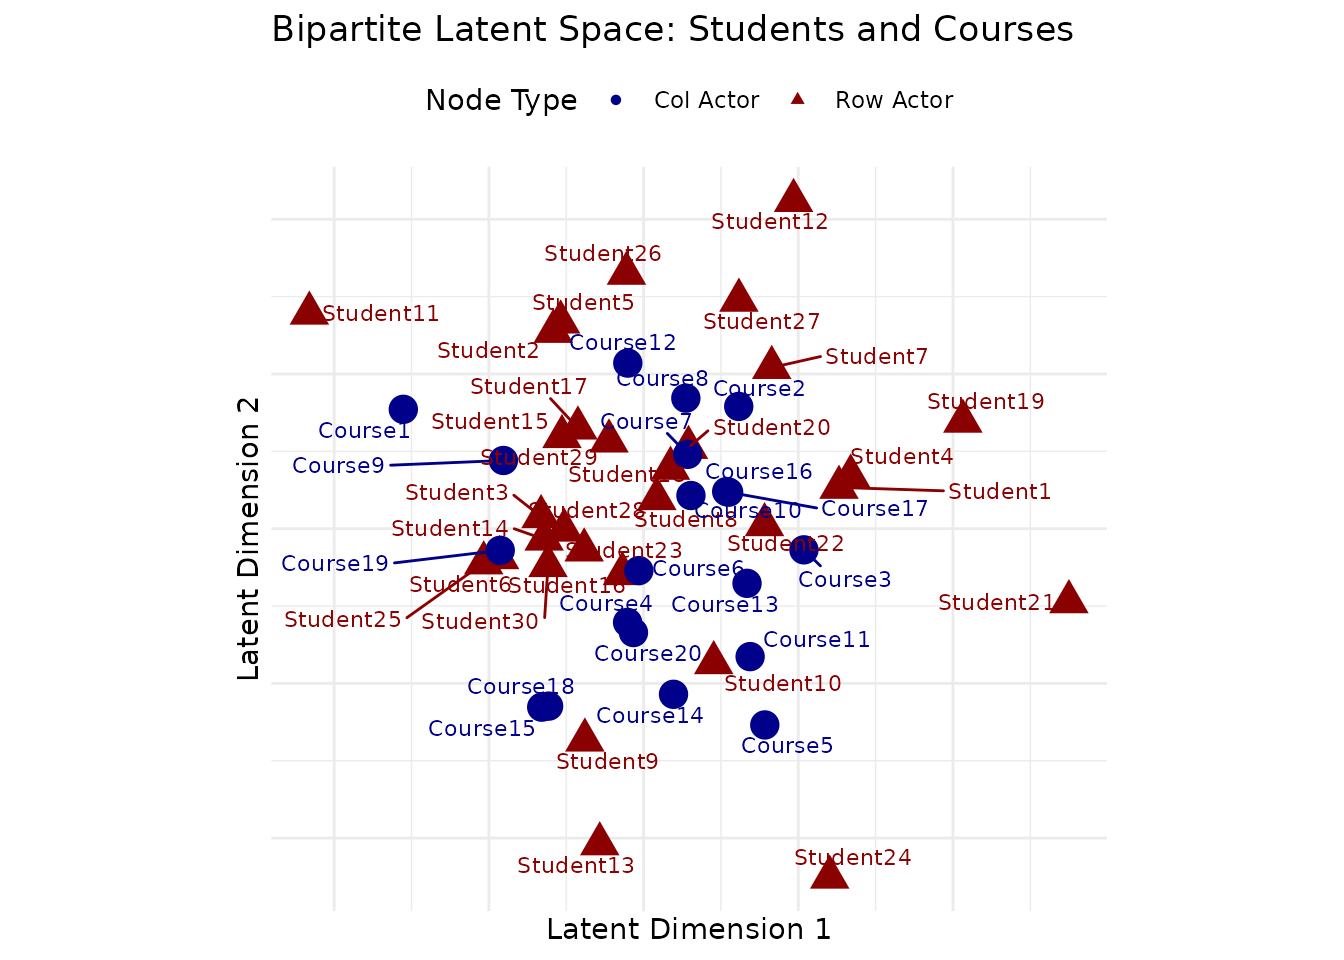
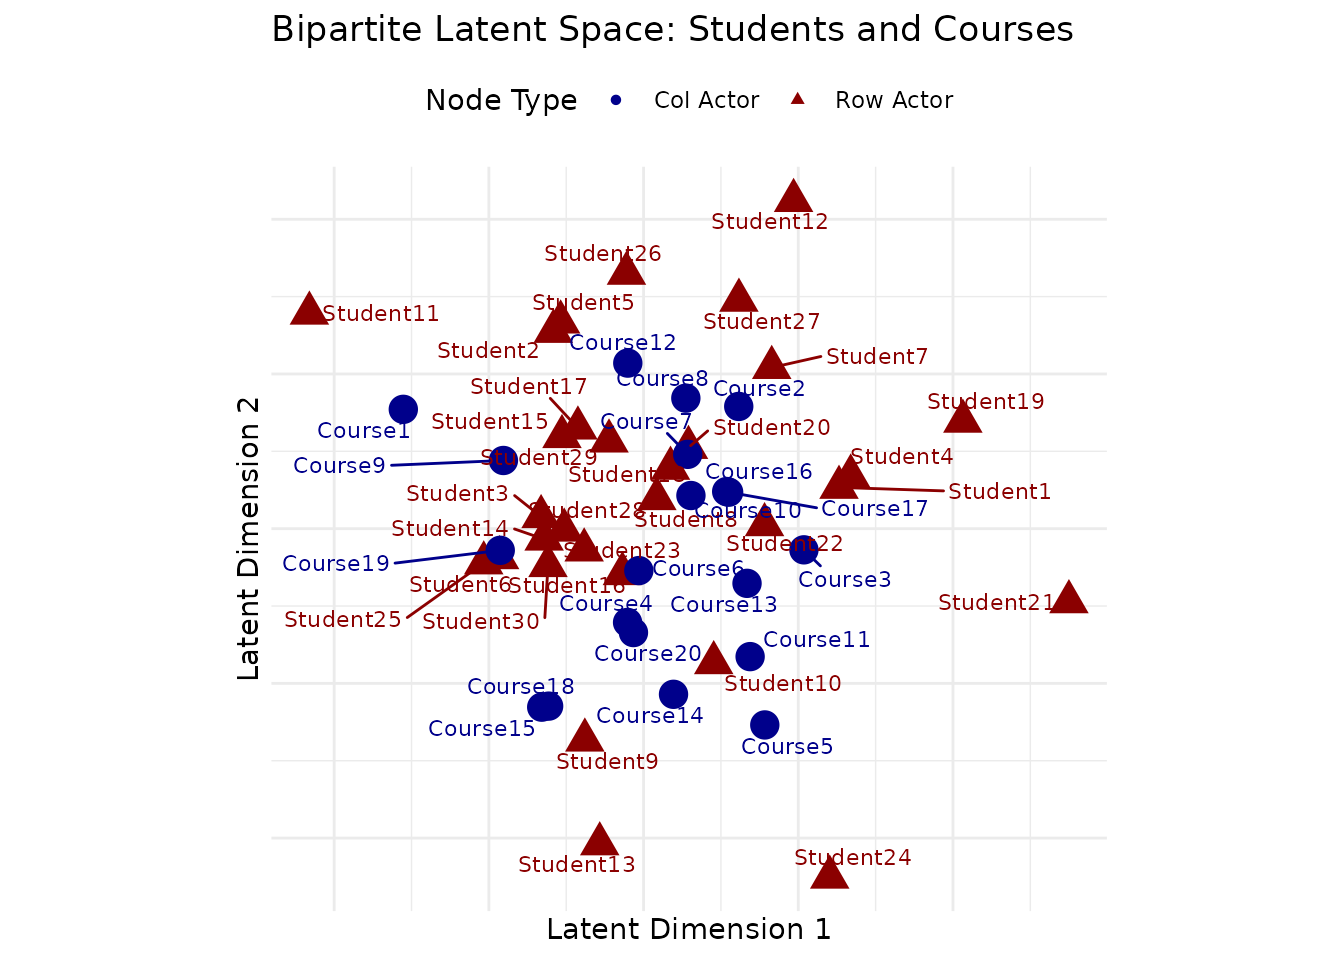
Deploying to gh-pages from @ netify-dev/lame@e8c84491105d0d28232d954674e42848d07ecef1 🚀

diff --git a/reference/dynamic_beta_prior_summary.html b/reference/dynamic_beta_prior_summary.html
@@ -1,11 +1,11 @@
 <!DOCTYPE html>
-<!-- Generated by pkgdown: do not edit by hand --><html lang="en"><head><meta http-equiv="Content-Type" content="text/html; charset=UTF-8"><meta charset="utf-8"><meta http-equiv="X-UA-Compatible" content="IE=edge"><meta name="viewport" content="width=device-width, initial-scale=1, shrink-to-fit=no"><title>Summarise the implied prior on a time-varying coefficient path — dynamic_beta_prior_summary • lame</title><script src="../deps/jquery-3.6.0/jquery-3.6.0.min.js"></script><meta name="viewport" content="width=device-width, initial-scale=1, shrink-to-fit=no"><link href="../deps/bootstrap-5.3.8/bootstrap.min.css" rel="stylesheet"><script src="../deps/bootstrap-5.3.8/bootstrap.bundle.min.js"></script><link href="../deps/font-awesome-6.5.2/css/all.min.css" rel="stylesheet"><link href="../deps/font-awesome-6.5.2/css/v4-shims.min.css" rel="stylesheet"><script src="../deps/headroom-0.11.0/headroom.min.js"></script><script src="../deps/headroom-0.11.0/jQuery.headroom.min.js"></script><script src="../deps/bootstrap-toc-1.0.1/bootstrap-toc.min.js"></script><script src="../deps/clipboard.js-2.0.11/clipboard.min.js"></script><script src="../deps/search-1.0.0/autocomplete.jquery.min.js"></script><script src="../deps/search-1.0.0/fuse.min.js"></script><script src="../deps/search-1.0.0/mark.min.js"></script><!-- pkgdown --><script src="../pkgdown.js"></script><meta property="og:title" content="Summarise the implied prior on a time-varying coefficient path — dynamic_beta_prior_summary"><meta name="description" content="Draws ndraws sample paths of length T from the
+<!-- Generated by pkgdown: do not edit by hand --><html lang="en"><head><meta http-equiv="Content-Type" content="text/html; charset=UTF-8"><meta charset="utf-8"><meta http-equiv="X-UA-Compatible" content="IE=edge"><meta name="viewport" content="width=device-width, initial-scale=1, shrink-to-fit=no"><title>Summarise the implied prior on a time-varying coefficient path — dynamic_beta_prior_summary • lame</title><script src="../deps/jquery-3.6.0/jquery-3.6.0.min.js"></script><meta name="viewport" content="width=device-width, initial-scale=1, shrink-to-fit=no"><link href="../deps/bootstrap-5.3.8/bootstrap.min.css" rel="stylesheet"><script src="../deps/bootstrap-5.3.8/bootstrap.bundle.min.js"></script><link href="../deps/font-awesome-6.5.2/css/all.min.css" rel="stylesheet"><link href="../deps/font-awesome-6.5.2/css/v4-shims.min.css" rel="stylesheet"><script src="../deps/headroom-0.11.0/headroom.min.js"></script><script src="../deps/headroom-0.11.0/jQuery.headroom.min.js"></script><script src="../deps/bootstrap-toc-1.0.1/bootstrap-toc.min.js"></script><script src="../deps/clipboard.js-2.0.11/clipboard.min.js"></script><script src="../deps/search-1.0.0/autocomplete.jquery.min.js"></script><script src="../deps/search-1.0.0/fuse.min.js"></script><script src="../deps/search-1.0.0/mark.min.js"></script><!-- pkgdown --><script src="../pkgdown.js"></script><meta property="og:title" content="Summarise the implied prior on a time-varying coefficient path — dynamic_beta_prior_summary"><meta name="description" content="Draws ndraws sample paths of length n_periods from the
 dynamic_beta prior (given a kind, AR(1) hyperparameters, and an
 inverse-gamma on the innovation variance) and reports the implied
 distribution of common summary statistics: maximum absolute first
 difference, roughness (sum of squared first differences), path range, and
 correlation with time. Use this before fitting to confirm that your prior
-is loose / tight enough."><meta property="og:description" content="Draws ndraws sample paths of length T from the
+is loose / tight enough."><meta property="og:description" content="Draws ndraws sample paths of length n_periods from the
 dynamic_beta prior (given a kind, AR(1) hyperparameters, and an
 inverse-gamma on the innovation variance) and reports the implied
 distribution of common summary statistics: maximum absolute first
@@ -59,7 +59,7 @@ is loose / tight enough."></head><body>
     </div>
 
     <div class="ref-description section level2">
-    <p>Draws <code>ndraws</code> sample paths of length <code>T</code> from the
+    <p>Draws <code>ndraws</code> sample paths of length <code>n_periods</code> from the
 <code>dynamic_beta</code> prior (given a kind, AR(1) hyperparameters, and an
 inverse-gamma on the innovation variance) and reports the implied
 distribution of common summary statistics: maximum absolute first
@@ -71,7 +71,7 @@ is loose / tight enough.</p>
     <div class="section level2">
     <h2 id="ref-usage">Usage<a class="anchor" aria-label="anchor" href="#ref-usage"></a></h2>
     <div class="sourceCode"><pre class="sourceCode r"><code><span><span class="fu">dynamic_beta_prior_summary</span><span class="op">(</span></span>
-<span>  T <span class="op">=</span> <span class="fl">10L</span>,</span>
+<span>  n_periods <span class="op">=</span> <span class="fl">10L</span>,</span>
 <span>  ndraws <span class="op">=</span> <span class="fl">5000L</span>,</span>
 <span>  kind <span class="op">=</span> <span class="fu"><a href="https://rdrr.io/r/base/c.html" class="external-link">c</a></span><span class="op">(</span><span class="st">"ar1"</span>, <span class="st">"rw1"</span>, <span class="st">"rw2"</span>, <span class="st">"matern32"</span><span class="op">)</span>,</span>
 <span>  rho_mean <span class="op">=</span> <span class="fl">0.8</span>,</span>
@@ -90,7 +90,7 @@ is loose / tight enough.</p>
     <h2 id="arguments">Arguments<a class="anchor" aria-label="anchor" href="#arguments"></a></h2>
 
 
-<dl><dt id="arg-t">T<a class="anchor" aria-label="anchor" href="#arg-t"></a></dt>
+<dl><dt id="arg-n-periods">n_periods<a class="anchor" aria-label="anchor" href="#arg-n-periods"></a></dt>
 <dd><p>Length of the path (default 10).</p></dd>
 
 
@@ -153,7 +153,7 @@ maximum absolute first difference exceeds <code>threshold</code>.</p></dd>
 <dd><p>Length <code>ndraws</code> vector of sampled sigma values.</p></dd>
 
 <dt><code>paths</code></dt>
-<dd><p><code>ndraws x T</code> matrix of sample paths.</p></dd>
+<dd><p><code>ndraws x n_periods</code> matrix of sample paths.</p></dd>
 
 
 </dl></div>
@@ -171,7 +171,7 @@ and the first two values use a diffuse \(N(0, 10)\) initial prior.</p>
     <h2 id="ref-examples">Examples<a class="anchor" aria-label="anchor" href="#ref-examples"></a></h2>
     <div class="sourceCode"><pre class="sourceCode r"><code><span class="r-in"><span><span class="co"># \donttest{</span></span></span>
 <span class="r-in"><span><span class="co"># Default prior: AR(1) with rho_mean = 0.8, rho_sd = 0.15</span></span></span>
-<span class="r-in"><span><span class="va">s</span> <span class="op">&lt;-</span> <span class="fu">dynamic_beta_prior_summary</span><span class="op">(</span>T <span class="op">=</span> <span class="fl">10</span>, ndraws <span class="op">=</span> <span class="fl">2000</span>, seed <span class="op">=</span> <span class="fl">1</span><span class="op">)</span></span></span>
+<span class="r-in"><span><span class="va">s</span> <span class="op">&lt;-</span> <span class="fu">dynamic_beta_prior_summary</span><span class="op">(</span>n_periods <span class="op">=</span> <span class="fl">10</span>, ndraws <span class="op">=</span> <span class="fl">2000</span>, seed <span class="op">=</span> <span class="fl">1</span><span class="op">)</span></span></span>
 <span class="r-in"><span><span class="va">s</span><span class="op">$</span><span class="va">summary</span></span></span>
 <span class="r-out co"><span class="r-pr">#&gt;</span>             quantity        q05        q50        q95</span>
 <span class="r-out co"><span class="r-pr">#&gt;</span> 1 max_abs_first_diff  0.7215172 1.46787811  3.7138105</span>

diff --git a/reference/rhat_dynamic_beta.html b/reference/rhat_dynamic_beta.html
@@ -83,7 +83,7 @@ subset (matches <code>dimnames(fit$BETA)[[2]]</code>).</p></dd>
     <h2 id="value">Value<a class="anchor" aria-label="anchor" href="#value"></a></h2>
     <p>Data frame with one row per coefficient: <code>coef</code>,
 <code>rhat_mvt</code>, <code>rhat_max_univariate</code>, <code>n_chains</code>,
-<code>n_iter_per_chain</code>, <code>T</code>. <code>rhat_mvt</code> is the
+<code>n_iter_per_chain</code>, <code>n_periods</code>. <code>rhat_mvt</code> is the
 Brooks-Gelman multivariate statistic; <code>rhat_max_univariate</code>
 is the max over per-(k,t) split-R-hat values for comparison.</p>
     </div>
@@ -119,11 +119,11 @@ For nearly degenerate covariances we add a tiny ridge to \(W_k\).</p>
 <span class="r-wrn co"><span class="r-pr">#&gt;</span> <span style="color: #00BBBB;">ℹ</span> `Y` will be thresholded to `1 * (Y &gt; 0)`; if you meant counts, use <span style="color: #0000BB;">"poisson"</span>,</span>
 <span class="r-wrn co"><span class="r-pr">#&gt;</span>   or <span style="color: #0000BB;">"ordinal"</span>/<span style="color: #0000BB;">"normal"</span> as appropriate.</span>
 <span class="r-in"><span><span class="fu">rhat_dynamic_beta</span><span class="op">(</span><span class="va">fit_list</span><span class="op">)</span></span></span>
-<span class="r-out co"><span class="r-pr">#&gt;</span>        coef  rhat_mvt rhat_max_univariate n_chains n_iter_per_chain T</span>
-<span class="r-out co"><span class="r-pr">#&gt;</span> 1 intercept 0.9652322            1.003289        2               12 4</span>
-<span class="r-out co"><span class="r-pr">#&gt;</span> 2   X1_dyad 1.4857680            1.994606        2               12 4</span>
-<span class="r-out co"><span class="r-pr">#&gt;</span> 3   X2_dyad 1.2703514            2.126998        2               12 4</span>
-<span class="r-out co"><span class="r-pr">#&gt;</span> 4   X3_dyad 1.6227131            2.165537        2               12 4</span>
+<span class="r-out co"><span class="r-pr">#&gt;</span>        coef  rhat_mvt rhat_max_univariate n_chains n_iter_per_chain n_periods</span>
+<span class="r-out co"><span class="r-pr">#&gt;</span> 1 intercept 0.9652322            1.003289        2               12         4</span>
+<span class="r-out co"><span class="r-pr">#&gt;</span> 2   X1_dyad 1.4857680            1.994606        2               12         4</span>
+<span class="r-out co"><span class="r-pr">#&gt;</span> 3   X2_dyad 1.2703514            2.126998        2               12         4</span>
+<span class="r-out co"><span class="r-pr">#&gt;</span> 4   X3_dyad 1.6227131            2.165537        2               12         4</span>
 <span class="r-in"><span><span class="co"># }</span></span></span>
 <span class="r-in"><span></span></span>
 </code></pre></div>

diff --git a/index.html b/index.html
@@ -11,8 +11,8 @@
 <script src="deps/bootstrap-5.3.8/bootstrap.bundle.min.js"></script><link href="deps/font-awesome-6.5.2/css/all.min.css" rel="stylesheet">
 <link href="deps/font-awesome-6.5.2/css/v4-shims.min.css" rel="stylesheet">
 <script src="deps/headroom-0.11.0/headroom.min.js"></script><script src="deps/headroom-0.11.0/jQuery.headroom.min.js"></script><script src="deps/bootstrap-toc-1.0.1/bootstrap-toc.min.js"></script><script src="deps/clipboard.js-2.0.11/clipboard.min.js"></script><script src="deps/search-1.0.0/autocomplete.jquery.min.js"></script><script src="deps/search-1.0.0/fuse.min.js"></script><script src="deps/search-1.0.0/mark.min.js"></script><!-- pkgdown --><script src="pkgdown.js"></script><meta property="og:title" content="Longitudinal Additive and Multiplicative Effects Models for Networks">
-<meta name="description" content="Tools for additive and multiplicative effects models for both cross-sectional and longitudinal network analysis. The package provides two main functions: ame() for cross-sectional networks and lame() for longitudinal networks. It supports square and rectangular network structures. Key features include: (1) Cross-sectional network analysis via ame() with support for binary, continuous, ordinal, and count data; (2) Longitudinal network analysis via lame() with additive sender/receiver and multiplicative latent-factor effects that can evolve over time through AR(1) processes (Sewell and Chen (2015) &lt;doi:10.1080/01621459.2014.988214&gt;; Durante and Dunson (2014) &lt;doi:10.1093/biomet/asu040&gt;); (3) Handling of changing actor compositions across time periods in longitudinal models; (4) Performance improvements through C++ implementations via Rcpp and RcppArmadillo.">
-<meta property="og:description" content="Tools for additive and multiplicative effects models for both cross-sectional and longitudinal network analysis. The package provides two main functions: ame() for cross-sectional networks and lame() for longitudinal networks. It supports square and rectangular network structures. Key features include: (1) Cross-sectional network analysis via ame() with support for binary, continuous, ordinal, and count data; (2) Longitudinal network analysis via lame() with additive sender/receiver and multiplicative latent-factor effects that can evolve over time through AR(1) processes (Sewell and Chen (2015) &lt;doi:10.1080/01621459.2014.988214&gt;; Durante and Dunson (2014) &lt;doi:10.1093/biomet/asu040&gt;); (3) Handling of changing actor compositions across time periods in longitudinal models; (4) Performance improvements through C++ implementations via Rcpp and RcppArmadillo.">
+<meta name="description" content="Additive and multiplicative effects models for both cross-sectional and longitudinal network analysis. The package provides two main functions: ame() for cross-sectional networks and lame() for longitudinal networks. It supports square and rectangular network structures. Key features include: (1) Cross-sectional network analysis via ame() with support for binary, continuous, ordinal, and count data; (2) Longitudinal network analysis via lame() with additive sender/receiver and multiplicative latent-factor effects that can evolve over time through AR(1) processes (Sewell and Chen (2015) &lt;doi:10.1080/01621459.2014.988214&gt;; Durante and Dunson (2014) &lt;doi:10.1093/biomet/asu040&gt;); (3) Handling of changing actor compositions across time periods in longitudinal models; (4) Performance improvements through C++ implementations via Rcpp and RcppArmadillo.">
+<meta property="og:description" content="Additive and multiplicative effects models for both cross-sectional and longitudinal network analysis. The package provides two main functions: ame() for cross-sectional networks and lame() for longitudinal networks. It supports square and rectangular network structures. Key features include: (1) Cross-sectional network analysis via ame() with support for binary, continuous, ordinal, and count data; (2) Longitudinal network analysis via lame() with additive sender/receiver and multiplicative latent-factor effects that can evolve over time through AR(1) processes (Sewell and Chen (2015) &lt;doi:10.1080/01621459.2014.988214&gt;; Durante and Dunson (2014) &lt;doi:10.1093/biomet/asu040&gt;); (3) Handling of changing actor compositions across time periods in longitudinal models; (4) Performance improvements through C++ implementations via Rcpp and RcppArmadillo.">
 </head>
 <body>
     <a href="#main" class="visually-hidden-focusable">Skip to contents</a>
@@ -483,7 +483,7 @@
 <div class="section level2">
 <h2 id="license">License<a class="anchor" aria-label="anchor" href="#license"></a>
 </h2>
-<p>MIT License - see <a href="LICENSE">LICENSE</a> file for details.</p>
+<p>GPL-3. Portions of this package are derived from the <a href="https://CRAN.R-project.org/package=amen" class="external-link">amen</a> package (Copyright Peter D. Hoff, GPL-3); see <code>inst/COPYRIGHTS</code> for details.</p>
 </div>
 <div class="section level2">
 <h2 id="support">Support<a class="anchor" aria-label="anchor" href="#support"></a>
@@ -512,9 +512,7 @@
 <div class="license">
 <h2 data-toc-skip>License</h2>
 <ul class="list-unstyled">
-<li>
-<a href="https://opensource.org/licenses/mit-license.php" class="external-link">MIT</a> + file <a href="LICENSE-text.html">LICENSE</a>
-</li>
+<li><a href="https://www.r-project.org/Licenses/GPL-3" class="external-link">GPL-3</a></li>
 </ul>
 </div>
 
@@ -532,6 +530,7 @@
 <li>Cassy Dorff <br><small class="roles"> Author </small>   </li>
 <li>Shahryar Minhas <br><small class="roles"> Author, maintainer </small>   </li>
 <li>Tosin Salau <br><small class="roles"> Author </small>   </li>
+<li><a href="authors.html">More about authors...</a></li>
 </ul>
 </div>
 

diff --git a/reference/als_dynamic_beta.html b/reference/als_dynamic_beta.html
@@ -141,11 +141,11 @@ fit (AR(1) / RW1 / RW2 / Matern 3/2);
     <div class="section level2">
     <h2 id="ref-examples">Examples<a class="anchor" aria-label="anchor" href="#ref-examples"></a></h2>
     <div class="sourceCode"><pre class="sourceCode r"><code><span class="r-in"><span><span class="fu"><a href="https://rdrr.io/r/base/Random.html" class="external-link">set.seed</a></span><span class="op">(</span><span class="fl">1</span><span class="op">)</span></span></span>
-<span class="r-in"><span><span class="va">n</span> <span class="op">&lt;-</span> <span class="fl">10</span>; <span class="cn">T</span> <span class="op">&lt;-</span> <span class="fl">4</span></span></span>
-<span class="r-in"><span><span class="va">X</span> <span class="op">&lt;-</span> <span class="fu"><a href="https://rdrr.io/r/base/lapply.html" class="external-link">replicate</a></span><span class="op">(</span><span class="cn">T</span>, <span class="fu"><a href="https://rdrr.io/r/base/array.html" class="external-link">array</a></span><span class="op">(</span><span class="fu"><a href="https://rdrr.io/r/stats/Normal.html" class="external-link">rnorm</a></span><span class="op">(</span><span class="va">n</span><span class="op">*</span><span class="va">n</span><span class="op">*</span><span class="fl">2</span><span class="op">)</span>, <span class="fu"><a href="https://rdrr.io/r/base/c.html" class="external-link">c</a></span><span class="op">(</span><span class="va">n</span>, <span class="va">n</span>, <span class="fl">2</span><span class="op">)</span><span class="op">)</span>, simplify <span class="op">=</span> <span class="cn">FALSE</span><span class="op">)</span></span></span>
-<span class="r-in"><span><span class="va">beta_true</span> <span class="op">&lt;-</span> <span class="fu"><a href="https://rdrr.io/r/base/cbind.html" class="external-link">rbind</a></span><span class="op">(</span><span class="fu"><a href="https://rdrr.io/r/base/seq.html" class="external-link">seq</a></span><span class="op">(</span><span class="op">-</span><span class="fl">1</span>, <span class="fl">1</span>, length.out <span class="op">=</span> <span class="cn">T</span><span class="op">)</span>, <span class="fu"><a href="https://rdrr.io/r/base/seq.html" class="external-link">seq</a></span><span class="op">(</span><span class="fl">0.5</span>, <span class="op">-</span><span class="fl">0.5</span>, length.out <span class="op">=</span> <span class="cn">T</span><span class="op">)</span><span class="op">)</span></span></span>
-<span class="r-in"><span><span class="va">Y</span> <span class="op">&lt;-</span> <span class="fu"><a href="https://rdrr.io/r/base/vector.html" class="external-link">vector</a></span><span class="op">(</span><span class="st">"list"</span>, <span class="cn">T</span><span class="op">)</span></span></span>
-<span class="r-in"><span><span class="kw">for</span> <span class="op">(</span><span class="va">t</span> <span class="kw">in</span> <span class="fu"><a href="https://rdrr.io/r/base/seq.html" class="external-link">seq_len</a></span><span class="op">(</span><span class="cn">T</span><span class="op">)</span><span class="op">)</span> <span class="op">{</span></span></span>
+<span class="r-in"><span><span class="va">n</span> <span class="op">&lt;-</span> <span class="fl">10</span>; <span class="va">Tn</span> <span class="op">&lt;-</span> <span class="fl">4</span></span></span>
+<span class="r-in"><span><span class="va">X</span> <span class="op">&lt;-</span> <span class="fu"><a href="https://rdrr.io/r/base/lapply.html" class="external-link">replicate</a></span><span class="op">(</span><span class="va">Tn</span>, <span class="fu"><a href="https://rdrr.io/r/base/array.html" class="external-link">array</a></span><span class="op">(</span><span class="fu"><a href="https://rdrr.io/r/stats/Normal.html" class="external-link">rnorm</a></span><span class="op">(</span><span class="va">n</span><span class="op">*</span><span class="va">n</span><span class="op">*</span><span class="fl">2</span><span class="op">)</span>, <span class="fu"><a href="https://rdrr.io/r/base/c.html" class="external-link">c</a></span><span class="op">(</span><span class="va">n</span>, <span class="va">n</span>, <span class="fl">2</span><span class="op">)</span><span class="op">)</span>, simplify <span class="op">=</span> <span class="cn">FALSE</span><span class="op">)</span></span></span>
+<span class="r-in"><span><span class="va">beta_true</span> <span class="op">&lt;-</span> <span class="fu"><a href="https://rdrr.io/r/base/cbind.html" class="external-link">rbind</a></span><span class="op">(</span><span class="fu"><a href="https://rdrr.io/r/base/seq.html" class="external-link">seq</a></span><span class="op">(</span><span class="op">-</span><span class="fl">1</span>, <span class="fl">1</span>, length.out <span class="op">=</span> <span class="va">Tn</span><span class="op">)</span>, <span class="fu"><a href="https://rdrr.io/r/base/seq.html" class="external-link">seq</a></span><span class="op">(</span><span class="fl">0.5</span>, <span class="op">-</span><span class="fl">0.5</span>, length.out <span class="op">=</span> <span class="va">Tn</span><span class="op">)</span><span class="op">)</span></span></span>
+<span class="r-in"><span><span class="va">Y</span> <span class="op">&lt;-</span> <span class="fu"><a href="https://rdrr.io/r/base/vector.html" class="external-link">vector</a></span><span class="op">(</span><span class="st">"list"</span>, <span class="va">Tn</span><span class="op">)</span></span></span>
+<span class="r-in"><span><span class="kw">for</span> <span class="op">(</span><span class="va">t</span> <span class="kw">in</span> <span class="fu"><a href="https://rdrr.io/r/base/seq.html" class="external-link">seq_len</a></span><span class="op">(</span><span class="va">Tn</span><span class="op">)</span><span class="op">)</span> <span class="op">{</span></span></span>
 <span class="r-in"><span>  <span class="va">Yt</span> <span class="op">&lt;-</span> <span class="va">X</span><span class="op">[[</span><span class="va">t</span><span class="op">]</span><span class="op">]</span><span class="op">[</span>, , <span class="fl">1</span><span class="op">]</span> <span class="op">*</span> <span class="va">beta_true</span><span class="op">[</span><span class="fl">1</span>, <span class="va">t</span><span class="op">]</span> <span class="op">+</span> <span class="va">X</span><span class="op">[[</span><span class="va">t</span><span class="op">]</span><span class="op">]</span><span class="op">[</span>, , <span class="fl">2</span><span class="op">]</span> <span class="op">*</span> <span class="va">beta_true</span><span class="op">[</span><span class="fl">2</span>, <span class="va">t</span><span class="op">]</span> <span class="op">+</span></span></span>
 <span class="r-in"><span>        <span class="fu"><a href="https://rdrr.io/r/base/matrix.html" class="external-link">matrix</a></span><span class="op">(</span><span class="fu"><a href="https://rdrr.io/r/stats/Normal.html" class="external-link">rnorm</a></span><span class="op">(</span><span class="va">n</span><span class="op">*</span><span class="va">n</span>, <span class="fl">0</span>, <span class="fl">0.2</span><span class="op">)</span>, <span class="va">n</span>, <span class="va">n</span><span class="op">)</span></span></span>
 <span class="r-in"><span>  <span class="fu"><a href="https://rdrr.io/r/base/diag.html" class="external-link">diag</a></span><span class="op">(</span><span class="va">Yt</span><span class="op">)</span> <span class="op">&lt;-</span> <span class="cn">NA</span></span></span>

diff --git a/reference/init_dynamic_positions.html b/reference/init_dynamic_positions.html
@@ -52,7 +52,7 @@
 
     <div class="section level2">
     <h2 id="ref-usage">Usage<a class="anchor" aria-label="anchor" href="#ref-usage"></a></h2>
-    <div class="sourceCode"><pre class="sourceCode r"><code><span><span class="fu">init_dynamic_positions</span><span class="op">(</span><span class="va">n</span>, <span class="va">R</span>, <span class="cn">T</span>, <span class="va">rho_uv</span>, <span class="va">sigma_uv</span><span class="op">)</span></span></code></pre></div>
+    <div class="sourceCode"><pre class="sourceCode r"><code><span><span class="fu">init_dynamic_positions</span><span class="op">(</span><span class="va">n</span>, <span class="va">R</span>, <span class="va">Tn</span>, <span class="va">rho_uv</span>, <span class="va">sigma_uv</span><span class="op">)</span></span></code></pre></div>
     </div>
 
     <div class="section level2">
@@ -67,7 +67,7 @@
 <dd><p>Latent dimension</p></dd>
 
 
-<dt id="arg-t">T<a class="anchor" aria-label="anchor" href="#arg-t"></a></dt>
+<dt id="arg-tn">Tn<a class="anchor" aria-label="anchor" href="#arg-tn"></a></dt>
 <dd><p>Number of time points</p></dd>
 
 
@@ -81,7 +81,7 @@
 </dl></div>
     <div class="section level2">
     <h2 id="value">Value<a class="anchor" aria-label="anchor" href="#value"></a></h2>
-    <p>3D array of latent positions (n x R x T)</p>
+    <p>3D array of latent positions (n x R x Tn)</p>
     </div>
 
   </main><aside class="col-md-3"><nav id="toc" aria-label="Table of contents"><h2>On this page</h2>

diff --git a/authors.html b/authors.html
@@ -59,6 +59,11 @@
           <p><strong>Tosin Salau</strong>. Author.
           </p>
         </li>
+        <li>
+          <p><strong>Peter Hoff</strong>. Contributor, copyright holder.
+          <br><small>Author of the 'amen' package, from which several
+                      samplers and helpers are derived; see inst/COPYRIGHTS</small></p>
+        </li>
       </ul></div>
 
     <div class="section level2">

diff --git a/news/index.html b/news/index.html
@@ -47,7 +47,9 @@
 
     <div class="section level2">
 <h2 class="pkg-version" data-toc-text="1.3.2" id="lame-132">lame 1.3.2<a class="anchor" aria-label="anchor" href="#lame-132"></a></h2>
-<ul><li>Fixed Rd markup reported by CRAN’s incoming checks.</li>
+<ul><li>The package is now distributed under GPL-3 rather than MIT, matching the license of <code>amen</code>, from which several samplers and helpers are derived. Peter Hoff is credited as contributor and copyright holder; see <code>inst/COPYRIGHTS</code>.</li>
+<li>Fitting no longer leaves a <code>.Random.seed</code> behind in the global environment when the session had none, and <code><a href="../reference/lame.html">lame()</a></code> no longer sets <code>options(warn)</code>.</li>
+<li>Fixed Rd markup reported by CRAN’s incoming checks.</li>
 <li>Fixed a prior-scaling bug that could silently collapse the latent factors (and attenuate coefficients) in asymmetric <code><a href="../reference/ame.html">ame()</a></code> fits with <code>R &gt; 0</code>; fits now match <code>amen</code>.</li>
 <li>Time-varying coefficients (<code>dynamic_beta</code>) compose freely with the multiplicative latent factors (<code>R &gt; 0</code>) and additive sender/receiver effects, for every family and network type. Coefficients can follow AR(1), random-walk, or Matern dynamics, and <code><a href="https://rdrr.io/r/stats/predict.html" class="external-link">predict()</a></code> carries that drift into its forecasts.</li>
 <li>

diff --git a/reference/init_dynamic_ab_cpp.html b/reference/init_dynamic_ab_cpp.html
@@ -52,7 +52,7 @@
 
     <div class="section level2">
     <h2 id="ref-usage">Usage<a class="anchor" aria-label="anchor" href="#ref-usage"></a></h2>
-    <div class="sourceCode"><pre class="sourceCode r"><code><span><span class="fu">init_dynamic_ab_cpp</span><span class="op">(</span><span class="va">n</span>, <span class="cn">T</span>, <span class="va">rho_ab</span>, <span class="va">sigma_ab</span>, mean_a <span class="op">=</span> <span class="fl">0</span>, mean_b <span class="op">=</span> <span class="fl">0</span><span class="op">)</span></span></code></pre></div>
+    <div class="sourceCode"><pre class="sourceCode r"><code><span><span class="fu">init_dynamic_ab_cpp</span><span class="op">(</span><span class="va">n</span>, <span class="va">Tn</span>, <span class="va">rho_ab</span>, <span class="va">sigma_ab</span>, mean_a <span class="op">=</span> <span class="fl">0</span>, mean_b <span class="op">=</span> <span class="fl">0</span><span class="op">)</span></span></code></pre></div>
     </div>
 
     <div class="section level2">
@@ -63,7 +63,7 @@
 <dd><p>Number of actors</p></dd>
 
 
-<dt id="arg-t">T<a class="anchor" aria-label="anchor" href="#arg-t"></a></dt>
+<dt id="arg-tn">Tn<a class="anchor" aria-label="anchor" href="#arg-tn"></a></dt>
 <dd><p>Number of time points</p></dd>
 
 

diff --git a/articles/bipartite.html b/articles/bipartite.html
@@ -69,7 +69,7 @@
                         <h4 data-toc-skip class="author">Cassy Dorff,
 Shahryar Minhas, and Tosin Salau</h4>
             
-            <h4 data-toc-skip class="date">2026-07-21</h4>
+            <h4 data-toc-skip class="date">2026-07-22</h4>
       
       <small class="dont-index">Source: <a href="https://github.com/netify-dev/lame/blob/main/vignettes/bipartite.Rmd" class="external-link"><code>vignettes/bipartite.Rmd</code></a></small>
       <div class="d-none name"><code>bipartite.Rmd</code></div>

diff --git a/articles/cross_sec_ame.html b/articles/cross_sec_ame.html
@@ -69,7 +69,7 @@
                         <h4 data-toc-skip class="author">Cassy Dorff,
 Shahryar Minhas, and Tosin Salau</h4>
             
-            <h4 data-toc-skip class="date">2026-07-21</h4>
+            <h4 data-toc-skip class="date">2026-07-22</h4>
       
       <small class="dont-index">Source: <a href="https://github.com/netify-dev/lame/blob/main/vignettes/cross_sec_ame.Rmd" class="external-link"><code>vignettes/cross_sec_ame.Rmd</code></a></small>
       <div class="d-none name"><code>cross_sec_ame.Rmd</code></div>

diff --git a/articles/dynamic_effects.html b/articles/dynamic_effects.html
@@ -69,7 +69,7 @@
                         <h4 data-toc-skip class="author">Cassy Dorff,
 Tosin Salau, Shahryar Minhas</h4>
             
-            <h4 data-toc-skip class="date">2026-07-21</h4>
+            <h4 data-toc-skip class="date">2026-07-22</h4>
       
       <small class="dont-index">Source: <a href="https://github.com/netify-dev/lame/blob/main/vignettes/dynamic_effects.Rmd" class="external-link"><code>vignettes/dynamic_effects.Rmd</code></a></small>
       <div class="d-none name"><code>dynamic_effects.Rmd</code></div>

diff --git a/articles/fast_estimation.html b/articles/fast_estimation.html
@@ -69,7 +69,7 @@
                         <h4 data-toc-skip class="author">Cassy Dorff,
 Shahryar Minhas, and Tosin Salau</h4>
             
-            <h4 data-toc-skip class="date">2026-07-21</h4>
+            <h4 data-toc-skip class="date">2026-07-22</h4>
       
       <small class="dont-index">Source: <a href="https://github.com/netify-dev/lame/blob/main/vignettes/fast_estimation.Rmd" class="external-link"><code>vignettes/fast_estimation.Rmd</code></a></small>
       <div class="d-none name"><code>fast_estimation.Rmd</code></div>